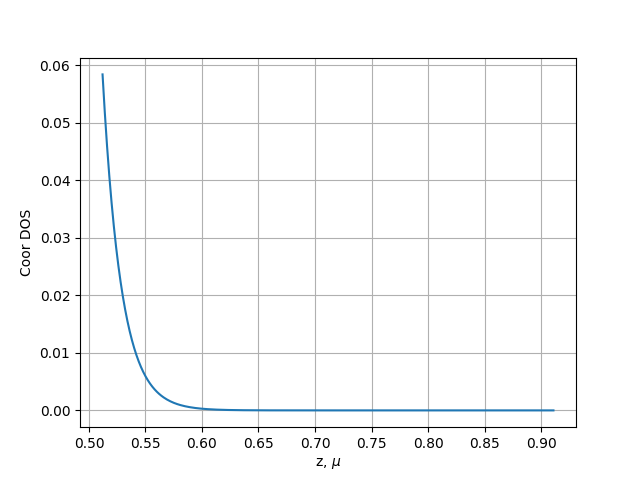
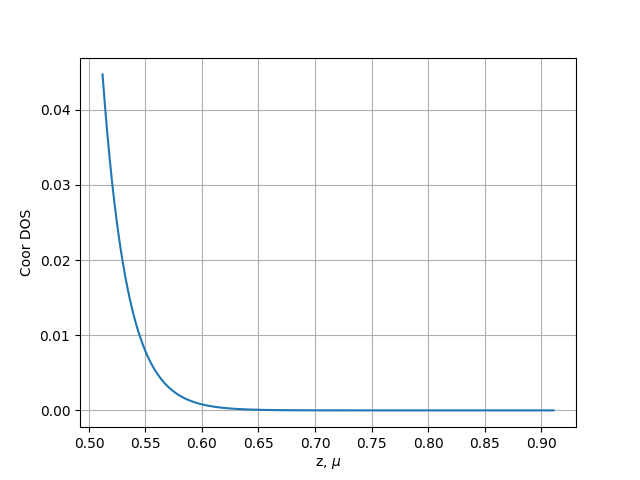
Const_version ready

diff --git a/test_all.py b/test_all.py
@@ -13,7 +13,7 @@ import Visualization
 
 def get_coor_Cs3Sb(gamma):
 
-    way_to = r'C:\Users\Mikhail\YandexDisk\Kintech\Projects\Science\monte-catlo\Monte-Carlo-Photocathode\experiment\Cs3Sb\alpha_Cs3Sb.csv'
+    way_to = r'C:\Users\Mikhail\YandexDisk\Kintech\Projects\Science\monte-catlo\Monte-Carlo-Photocathode\experiment\K2CsSb\alpha_K2CsSb.csv'
     data = pd.read_csv(way_to, sep = '; ').to_numpy()
 
     func = interpolate.interp1d(data[:, 0], data[:, 1])
@@ -49,7 +49,7 @@ def get_curr_gamma(way_to_coor_DOS, file_name):
 
 def get_R_func():
     
-    func = lambda x: 0.35
+    func = lambda x: 0.2
 
     return func
 
@@ -61,9 +61,9 @@ def plot_spectrum():
 
     N_electrons = 5000
     N_iterations = 10000
-    E_g = 1.6 #band gap
-    E_a = 0.45 #electron afinity
-    delta_E = 0.027 #ev, phonon energy
+    E_g = 1.1 #band gap
+    E_a = 0.65 #electron afinity
+    delta_E = 0.022 #ev, phonon energy
     delta_E_DOS = 0.001 #ev
     effective_mass = 0.23 #m/m_e
     dt = 5 #fs
@@ -73,9 +73,9 @@ def plot_spectrum():
 
     fig, ax = plt.subplots()
 
-    N_energies = 4
+    N_energies = 20
 
-    energyes = np.linspace(2.1, 3.1, N_energies)
+    energyes = np.linspace(1.95, 2.5, N_energies)
 
     R_func = get_R_func()
 
@@ -95,9 +95,7 @@ def plot_spectrum():
         task.set_calc_params(dt, N_electrons, N_iterations, kill_energy)
         task.set_DOS(energy_DOS, coor_DOS)
 
-        task.add_scattering(scat.tau_POP_plus, delta_E)
         task.add_scattering(scat.tau_POP_minus, -delta_E)
-        task.add_l_e_e_scattering(scat.l_e_e, -1.2)
 
         geom = Geometry.HalfspaceGeom(np.array([0, 0, 0.512]), np.array([0, 0, 1]))
         task.set_geometry(geom)
@@ -135,7 +133,7 @@ def plot_ready_results(file_name):
     with open(f'{file_name}.npy', 'rb') as f:
         result = np.load(f)
 
-    Visualization.compare_with_exp(r'C:\Users\Mikhail\YandexDisk\Kintech\Projects\Science\monte-catlo\Monte-Carlo-Photocathode\experiment\Cs3Sb\ExpCs3Sb.csv', result)
+    Visualization.compare_with_exp(r'C:\Users\Mikhail\YandexDisk\Kintech\Projects\Science\monte-catlo\Monte-Carlo-Photocathode\experiment\K2CsSb\ExpK2CsSb.csv', result)
 
 plot_spectrum()
 plot_ready_results('result_spectr1')

diff --git a/ElTransport.py b/ElTransport.py
@@ -4,7 +4,7 @@ import numpy as np
 
 def _make_new_coor(single_electron, dt): 
 
-    l_E = single_electron.get_veloicity()*dt
+    l_E = 0.003#single_electron.get_veloicity()*dt
 
     curr_dir = single_electron.get_dir()
 
@@ -43,36 +43,16 @@ def _make_p_mass_l_e_e(single_electron, l_e_e, dt):
 
     return [p, 1-p]
 
-def _make_scatterings(single_electron, tau_mass, E_mass, dt, l_e_e_mass = [], E_e_e_mass = []):
-
-    N_tau = len(tau_mass)
-    N_l = len(l_e_e_mass)
+def _make_scatterings(single_electron, tau_mass, E_mass):
     
     do_new_dir = False
+    N_tau = len(tau_mass)
 
     for j in range(N_tau):
 
-        p_mass = _make_p_mass(single_electron.get_E(), dt, tau_mass[j])
+        single_electron.add_energy(E_mass[j])
 
-        is_scattering = np.random.choice([True, False], p = p_mass)
-
-        if is_scattering:
-
-            single_electron.add_energy(E_mass[j])
-
-            do_new_dir = True
-
-    for j in range(N_l):
-
-        p_mass = _make_p_mass_l_e_e(single_electron, l_e_e_mass[j], dt)
-
-        is_scattering = np.random.choice([True, False], p = p_mass)
-
-        if is_scattering:
-
-            single_electron.add_energy(E_e_e_mass[j])
-
-            do_new_dir = True
+        do_new_dir = True
 
     if do_new_dir:
 
@@ -99,9 +79,9 @@ def reflcation_process(geom, single_electron):
     single_electron.set_coor(new_coor)
     single_electron.set_dir(new_dir)
 
-def transport_process(single_electron, tau_mass, E_mass, dt, l_e_e_mass, E_e_e_mass):
+def transport_process(single_electron, tau_mass, E_mass, dt):
 
     _make_new_coor(single_electron, dt)
-    _make_scatterings(single_electron, tau_mass, E_mass, dt, l_e_e_mass, E_e_e_mass)
+    _make_scatterings(single_electron, tau_mass, E_mass)
     
 

diff --git a/test_energy_dos.py b/test_energy_dos.py
@@ -60,6 +60,6 @@ def test_make_energy_DOS_Cs3Sb():
     plt.ylabel('DOS')
     plt.savefig('energy_dos.png')
 
-test_make_DOS_func(r'C:\Users\Mikhail\YandexDisk\Kintech\Projects\Science\monte-catlo\Monte-Carlo-Photocathode\experiment\Cs3Sb\Cs3Sb_DOS.csv')
+test_make_DOS_func(r'C:\Users\Mikhail\YandexDisk\Kintech\Projects\Science\monte-catlo\Monte-Carlo-Photocathode\experiment\K2CsSb\K2CsSb_DOS.csv')
 #test_make_DOS_func(r'C:\Users\Mikhail\YandexDisk\Kintech\Projects\Science\monte-catlo\Monte-Carlo-Photocathode\experiment\Cs3Sb\Cs3Sb_DOS.csv')
 #test_make_energy_DOS_Cs3Sb()

diff --git a/MonteCarlo.py b/MonteCarlo.py
@@ -131,7 +131,7 @@ class Simulation:
 
         for i in range(self.N_iterations):
 
-            ElTransport.transport_process(single_electron, self.scatterings_tau, self.scatterings_E, self.dt, self.scatterings_l_e_e, self.scatterings_E_l_e_e)
+            ElTransport.transport_process(single_electron, self.scatterings_tau, self.scatterings_E, self.dt)
 
             if self.kill_low_energy_electrons(single_electron, self.kill_energy):
                 
